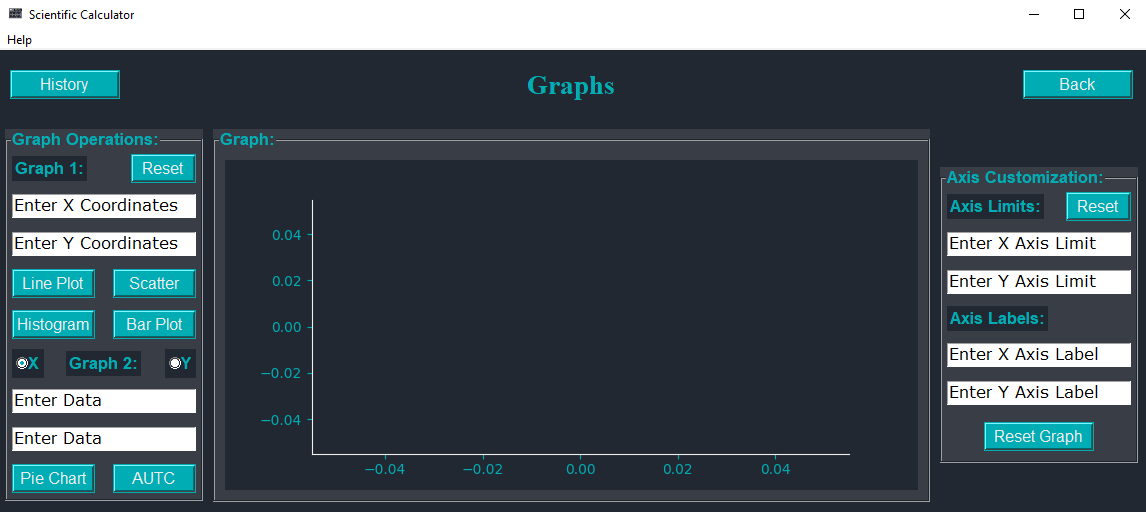
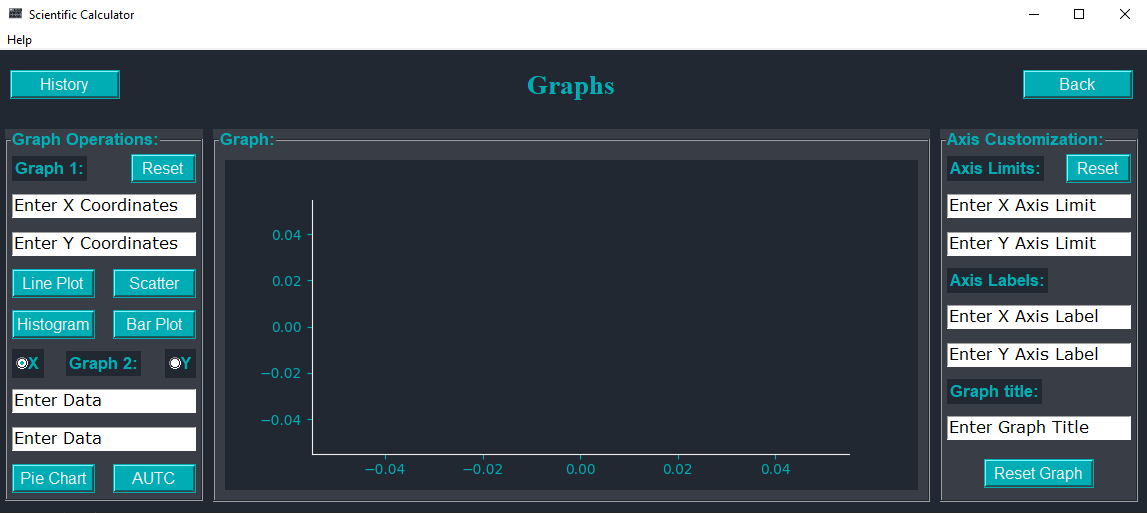
Update ScientificCalcMAIN.py
Added ability to add title to graph. Changed graph screenshot to reflect this new feature.

diff --git a/ScientificCalcMAIN.py b/ScientificCalcMAIN.py
@@ -1204,7 +1204,9 @@ class MatPlotLibPage(tk.Frame): #This class is for Graph page
 
                 XLbl = graphtext7.get('1.0', 'end-1c') #Takes X Axis label from user                
 
-                YLbl = graphtext8.get('1.0', 'end-1c') #Takes Y Axis label from user                              
+                YLbl = graphtext8.get('1.0', 'end-1c') #Takes Y Axis label from user  
+
+                GraphTitle = graphtext9.get('1.0', 'end-1c') #Takes graph title from user                            
 
                 f = Figure(figsize = (6.93, 3.3), dpi = 100) #Defines graph dimensions
                 a = f.add_subplot(111)
@@ -1212,6 +1214,7 @@ class MatPlotLibPage(tk.Frame): #This class is for Graph page
                 plt.ylim(YLimlist)
                 a.set_xlabel(XLbl)
                 a.set_ylabel(YLbl)
+                a.set_title(GraphTitle)
                 a.plot(Xlist, Ylist, color = '#00adb5') #Plots the graph
                 
                 a.set_facecolor('#222831') #Graph colours
@@ -1223,6 +1226,7 @@ class MatPlotLibPage(tk.Frame): #This class is for Graph page
                 a.xaxis.label.set_color('#00adb5')
                 a.xaxis.set_label_coords(0.5, -0.087)
                 a.yaxis.label.set_color('#00adb5')
+                a.title.set_color('#00adb5')
                 a.spines['top'].set_visible(False) #Hides top and right axis
                 a.spines['right'].set_visible(False)
 
@@ -1263,12 +1267,15 @@ class MatPlotLibPage(tk.Frame): #This class is for Graph page
 
                 YLbl = graphtext8.get('1.0', 'end-1c') #Takes Y Axis label from user                              
 
+                GraphTitle = graphtext9.get('1.0', 'end-1c') #Takes graph title from user 
+
                 f = Figure(figsize = (6.93, 3.3), dpi = 100) #Defines graph dimensions
                 a = f.add_subplot(111)
                 plt.xlim(XLimlist)
                 plt.ylim(YLimlist)
                 a.set_xlabel(XLbl)
                 a.set_ylabel(YLbl)
+                a.set_title(GraphTitle)
                 a.bar(Xlist, Ylist, color = '#00adb5') #Plots the graph
                 
                 a.set_facecolor('#222831') #Graph colours
@@ -1280,6 +1287,7 @@ class MatPlotLibPage(tk.Frame): #This class is for Graph page
                 a.xaxis.label.set_color('#00adb5')
                 a.xaxis.set_label_coords(0.5, -0.087)
                 a.yaxis.label.set_color('#00adb5')
+                a.title.set_color('#00adb5')
                 a.spines['top'].set_visible(False) #Hides top and right axis
                 a.spines['right'].set_visible(False)
 
@@ -1320,12 +1328,15 @@ class MatPlotLibPage(tk.Frame): #This class is for Graph page
 
                 YLbl = graphtext8.get('1.0', 'end-1c') #Takes Y Axis label from user                              
 
+                GraphTitle = graphtext9.get('1.0', 'end-1c') #Takes graph title from user 
+
                 f = Figure(figsize = (6.93, 3.3), dpi = 100) #Defines graph dimensions
                 a = f.add_subplot(111)
                 plt.xlim(XLimlist)
                 plt.ylim(YLimlist)
                 a.set_xlabel(XLbl)
                 a.set_ylabel(YLbl)
+                a.set_title(GraphTitle)
                 a.scatter(Xlist, Ylist, color = '#00adb5') #Plots the graph
                 
                 a.set_facecolor('#222831') #Graph colours
@@ -1337,6 +1348,7 @@ class MatPlotLibPage(tk.Frame): #This class is for Graph page
                 a.xaxis.label.set_color('#00adb5')
                 a.xaxis.set_label_coords(0.5, -0.087)
                 a.yaxis.label.set_color('#00adb5')
+                a.title.set_color('#00adb5')
                 a.spines['top'].set_visible(False) #Hides top and right axis
                 a.spines['right'].set_visible(False)
 
@@ -1377,12 +1389,15 @@ class MatPlotLibPage(tk.Frame): #This class is for Graph page
 
                 YLbl = graphtext8.get('1.0', 'end-1c') #Takes Y Axis label from user                              
 
+                GraphTitle = graphtext9.get('1.0', 'end-1c') #Takes graph title from user 
+
                 f = Figure(figsize = (6.93, 3.3), dpi = 100) #Defines graph dimensions
                 a = f.add_subplot(111)
                 plt.xlim(XLimlist)
                 plt.ylim(YLimlist)
                 a.set_xlabel(XLbl)
                 a.set_ylabel(YLbl)
+                a.set_title(GraphTitle)
                 a.hist(Xlist, Ylist, color = '#00adb5') #Plots the graph
                 
                 a.set_facecolor('#222831') #Graph colours
@@ -1394,6 +1409,7 @@ class MatPlotLibPage(tk.Frame): #This class is for Graph page
                 a.xaxis.label.set_color('#00adb5')
                 a.xaxis.set_label_coords(0.5, -0.087)
                 a.yaxis.label.set_color('#00adb5')
+                a.title.set_color('#00adb5')
                 a.spines['top'].set_visible(False) #Hides top and right axis
                 a.spines['right'].set_visible(False)
 
@@ -1421,9 +1437,12 @@ class MatPlotLibPage(tk.Frame): #This class is for Graph page
                 Ylist = list(map(float, Y.split()))
                 Ylist = [round(i, prec) for i in Ylist]
 
+                GraphTitle = graphtext9.get('1.0', 'end-1c') #Takes graph title from user 
+
                 wp = {'linewidth' : 1, 'edgecolor' : '#00adb5'} #For wedge properties
                 f = Figure(figsize = (6.93, 3.3), dpi = 100) #Defines graph dimensions
                 a = f.add_subplot(111)
+                a.set_title(GraphTitle)
                 a.pie(Ylist, labels =  Xlist, shadow = True, startangle = 90, wedgeprops = wp, textprops = dict(color = '#00adb5')) #Plots the graph
                 
                 a.set_facecolor('#222831') #Graph colours
@@ -1434,6 +1453,7 @@ class MatPlotLibPage(tk.Frame): #This class is for Graph page
                 a.spines['left'].set_color('#eeeeee')
                 a.spines['top'].set_visible(False) #Hides top and right axis
                 a.spines['right'].set_visible(False)
+                a.title.set_color('#00adb5')
 
                 uStatement = str('You plotted a pie chart with labels ' + X + ' and data ' + Y + '\n') #Usage history statement
                 uHist.append(uStatement)
@@ -1478,6 +1498,8 @@ class MatPlotLibPage(tk.Frame): #This class is for Graph page
 
                     YLbl = graphtext8.get('1.0', 'end-1c') #Takes Y Axis label from user  
 
+                    GraphTitle = graphtext9.get('1.0', 'end-1c') #Takes graph title from user 
+
                     f = Figure(figsize = (6.93, 3.3), dpi = 100) #Defines graph dimensions
                     a = f.add_subplot(111)
                     plt.xlim(XLimlist)
@@ -1486,6 +1508,7 @@ class MatPlotLibPage(tk.Frame): #This class is for Graph page
                     a.set_ylabel(YLbl)
                     a.plot(Xlist, Y1list, color = '#00adb5') #Plots the graph
                     a.plot(Xlist, Y2list, color = '#00adb5')
+                    a.set_title(GraphTitle)
                     a.fill_between(Xlist, Y1list, Y2list, color = '#393e46')
 
                     a.set_facecolor('#222831') #Graph colours
@@ -1497,6 +1520,7 @@ class MatPlotLibPage(tk.Frame): #This class is for Graph page
                     a.xaxis.label.set_color('#00adb5')
                     a.xaxis.set_label_coords(0.5, -0.087)
                     a.yaxis.label.set_color('#00adb5')
+                    a.title.set_color('#00adb5')
                     a.spines['top'].set_visible(False) #Hides top and right axis
                     a.spines['right'].set_visible(False)
 
@@ -1519,6 +1543,8 @@ class MatPlotLibPage(tk.Frame): #This class is for Graph page
                     X2list = list(map(float, X2.split()))
                     X2list = [round(i, prec) for i in X2list]
 
+                    GraphTitle = graphtext9.get('1.0', 'end-1c') #Takes graph title from user 
+
                     f = Figure(figsize = (7.55, 3.3), dpi = 100) #Defines graph dimensions
                     a = f.add_subplot(111)
                     plt.xlim(XLimlist)
@@ -1527,6 +1553,7 @@ class MatPlotLibPage(tk.Frame): #This class is for Graph page
                     a.set_ylabel(YLbl)
                     a.plot(X1list, Ylist, color = '#00adb5') #Plots the graph
                     a.plot(X2list, Ylist, color = '#00adb5')
+                    a.set_title(GraphTitle)
                     a.fill_betweenx(Ylist, X1list, X2list, color = '#393e46')
 
                     a.set_facecolor('#222831') #Graph colours
@@ -1538,6 +1565,7 @@ class MatPlotLibPage(tk.Frame): #This class is for Graph page
                     a.xaxis.label.set_color('#00adb5')
                     a.xaxis.set_label_coords(0.5, -0.087)
                     a.yaxis.label.set_color('#00adb5')
+                    a.title.set_color('#00adb5')
                     a.spines['top'].set_visible(False) #Hides top and right axis
                     a.spines['right'].set_visible(False)
 
@@ -1631,6 +1659,10 @@ class MatPlotLibPage(tk.Frame): #This class is for Graph page
 
         def msclick8(event): #Above function for graphtext8
             graphtext8.delete('1.0', 'end')
+            return None
+
+        def msclick9(event): #Above function for graphtext9
+            graphtext9.delete('1.0', 'end')
             return None
 
         xyvar = tk.IntVar() #This variable is for radio button value
@@ -1737,12 +1769,20 @@ class MatPlotLibPage(tk.Frame): #This class is for Graph page
         graphtext8.insert(tk.END, 'Enter Y Axis Label')
         graphtext8.bind('<Button-1>', msclick8)
 
+        graphlabel5 = tk.Label(limitlf, text = 'Graph title:', font = LabelFont, fg = '#00adb5', bg = '#222831') #Label for graph title input field
+        graphlabel5.grid(row = 6, column = 0, padx = 5, pady = 5, sticky = 'w')
+
+        graphtext9 = tk.Text(limitlf, font = LargeFont, height = 1.3, width = 18) #This field takes input for graph title
+        graphtext9.grid(row = 7, column = 0, ipady = 1, padx = 5, pady = 7)     
+        graphtext9.insert(tk.END, 'Enter Graph Title')
+        graphtext9.bind('<Button-1>', msclick9)
+
         resetaxisbtn = ttk.Button(limitlf, text = 'Reset', style = 'btn.TButton', command = lambda: resetAxis()) #This button resets all the fields in limitlf label frame
         resetaxisbtn.grid(row = 0, column = 0, padx = 5, pady = 4, sticky = 'e')
         resetaxisbtn.config(width = 6)
 
         graphresetbtn = ttk.Button(limitlf, text = 'Reset Graph', style = 'btn.TButton', command = lambda: resetGraph()) #This button resets the graph
-        graphresetbtn.grid(row = 6, column = 0, padx = 10, pady = 10)
+        graphresetbtn.grid(row = 8, column = 0, padx = 10, pady = 12)
 
         plotlf = tk.LabelFrame(self, text = 'Graph:', font = LabelFont, fg = '#00adb5', bg = '#393e46', width = 120, height = 50) #This label frame contains the plotted graph
         plotlf.grid(row = 1, column = 1, padx = 5, pady = 10)
@@ -2627,19 +2667,19 @@ def matplotlibHelp(): #This function defines the help menu for graphs page
     label = tk.Label(matplotlibhelpmenu, text = 'How to use Graphs Page', font = TitleFont, fg = '#00adb5', bg = '#222831') #Text to be displayed in the page
     label.grid(row = 0, column = 0, padx = 10, pady = 10)
 
-    helplabel1 = tk.Label(matplotlibhelpmenu, text = '- The Graphs page takes input on the left side and plots the graph in the middle.', font = LabelFont, fg = '#00adb5', bg = '#222831')
+    helplabel1 = tk.Label(matplotlibhelpmenu, text = '- The Graphs page takes data on the left side, labels and co-ord limits on the right side and plots the graph in the middle.', font = LabelFont, fg = '#00adb5', bg = '#222831')
     helplabel1.grid(row = 1, column = 0, padx = 10, pady = 5, sticky = 'w')
 
-    helplabel2 = tk.Label(matplotlibhelpmenu, text = '- The first two input fields take input for line, bar, histogram and scatter plots.', font = LabelFont, fg = '#00adb5', bg = '#222831')
+    helplabel2 = tk.Label(matplotlibhelpmenu, text = '- The first two input fields take input for line, bar, histogram and scatter plots. The other 2 fields are for pie chart.', font = LabelFont, fg = '#00adb5', bg = '#222831')
     helplabel2.grid(row = 2, column = 0, padx = 10, pady = 5, sticky = 'w')
 
     helplabel3 = tk.Label(matplotlibhelpmenu, text = '- Enter all X and Y coordinates sequentially with a space in the respective fields.', font = LabelFont, fg = '#00adb5', bg = '#222831')
     helplabel3.grid(row = 3, column = 0, padx = 10, pady = 5, sticky = 'w')
 
-    helplabel4 = tk.Label(matplotlibhelpmenu, text = '- The other 2 fields are for pie chart. Enter labels in first field and data in second field with spaces.', font = LabelFont, fg = '#00adb5', bg = '#222831')
+    helplabel4 = tk.Label(matplotlibhelpmenu, text = '- Enter labels in first field and data in second field with spaces for pie chart. Instructions for AUTC are in screenshot.', font = LabelFont, fg = '#00adb5', bg = '#222831')
     helplabel4.grid(row = 4, column = 0, padx = 10, pady = 5, sticky = 'w')
 
-    helplabel5 = tk.Label(matplotlibhelpmenu, text = '- Instructions for AUTC are provided in screenshot.', font = LabelFont, fg = '#00adb5', bg = '#222831')
+    helplabel5 = tk.Label(matplotlibhelpmenu, text = '- Enter coordinate limits of each axis, labels and graph title on the right. ', font = LabelFont, fg = '#00adb5', bg = '#222831')
     helplabel5.grid(row = 5, column = 0, padx = 10, pady = 5, sticky = 'w')
 
     matplotlibimg = Image.open(r'Images\matplotlibss.png') #This is to process matplotlibss utilizing PIL's modules
